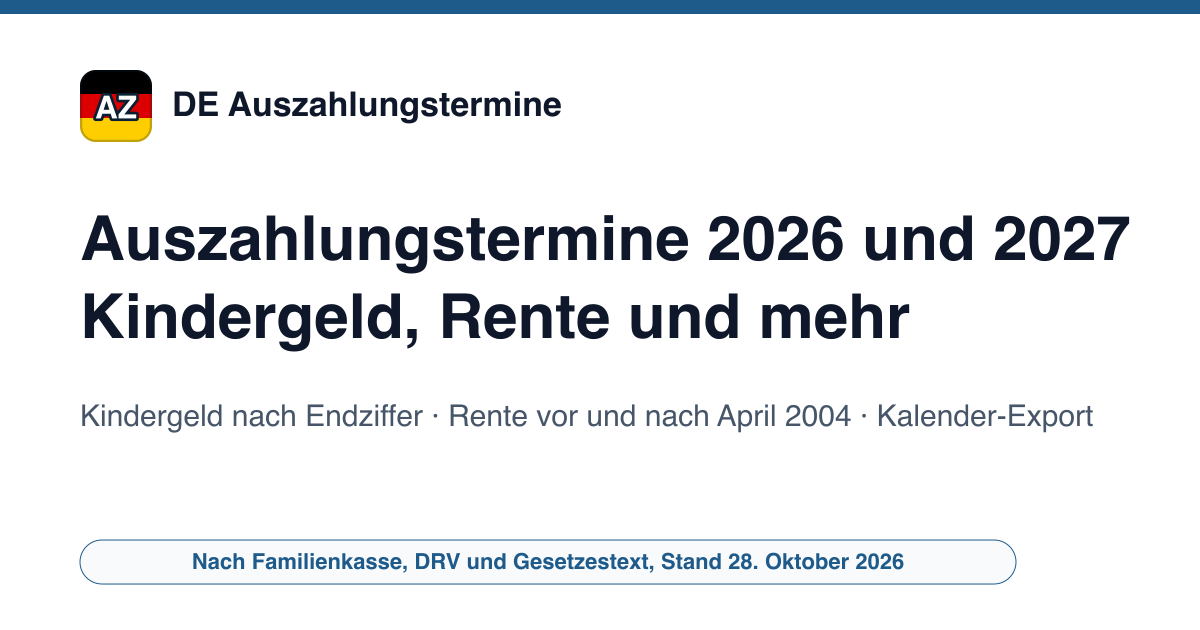
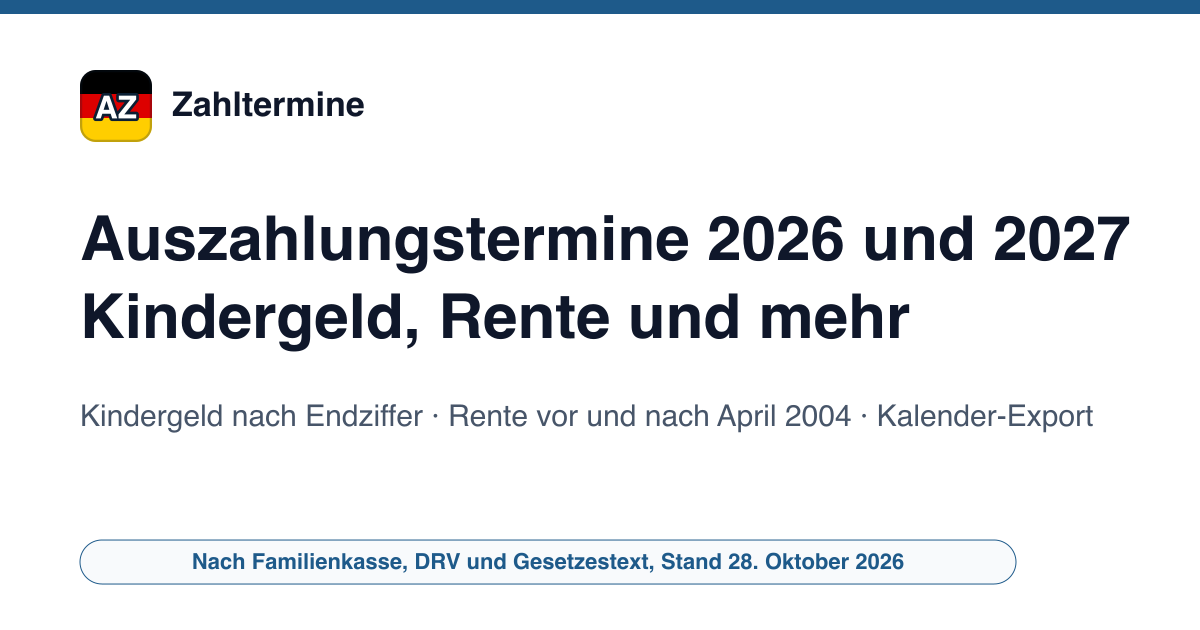
Renommage : de-auszahlungstermine devient zahltermine.de (Zahltermine)
Adresse, nom affiché, contact@zahltermine.de, CNAME, .nojekyll, robots,
images OG régénérées, ping IndexNow après déploiement ; fichier de débogage retiré.

Changed region(s): [[0.1233, 0.1206, 0.4933, 0.2111]]

diff --git a/src/data/site-config.ts b/src/data/site-config.ts
@@ -1,8 +1,8 @@
 /** Configuration centrale du site (générée par new-site.py). */
-export const SITE_URL = "https://de-auszahlungstermine.example";
-export const SITE_NAMES: Record<string, string> = {"de": "DE Auszahlungstermine", "en": "DE Auszahlungstermine"};
+export const SITE_URL = "https://zahltermine.de";
+export const SITE_NAMES: Record<string, string> = {"de": "Zahltermine", "en": "Zahltermine"};
 // Partie du nom affichée en couleur dans l'en-tête (RECETTE §10.3), « » pour aucune.
-export const BRAND_ACCENT = "Auszahlungstermine";
+export const BRAND_ACCENT = "termine";
 /** Locale des nombres et des dates : anglais britannique pour la version anglaise. */
 export const NUM_TAGS: Record<string, string> = {"de": "de-DE", "en": "en-GB"};
 export const LANG_TAGS: Record<string, string> = {"de": "de-DE", "en": "en-DE"};
@@ -20,7 +20,7 @@ export const AUTHOR_DESC: Record<string, string> = {"de": "Radif Partners trägt
  *  themes reellement traites par le site, pas une liste de mots-cles : un sujet
  *  declare ici sans page qui le couvre est une declaration fausse. */
 export const KNOWS_ABOUT: Record<string, string[]> = {"de": ["Auszahlungstermine des Kindergeldes nach Endziffer", "Rentenzahltermine nach § 118 und § 272a SGB VI", "Zahlung des Grundsicherungsgeldes nach § 42 SGB II", "Bankarbeitstage und TARGET-Schließtage", "Fälligkeit von Arbeitslosengeld, Elterngeld, Wohngeld und BAföG"], "en": ["German child benefit payment dates by final digit", "German pension payment dates", "Payment of basic income support (Grundsicherungsgeld)", "Bank business days and TARGET closing days", "Due dates of unemployment benefit, parental allowance, housing benefit and BAföG"]};
-export const CONTACT_EMAIL = "kontakt@de-auszahlungstermine.example";
+export const CONTACT_EMAIL = "contact@zahltermine.de";
 export const THEME_COLOR = '#1E5A8A';
 export const LOGO_SYMBOL = 'AZ';
 export const BING_VERIFY_CODE = '';

diff --git a/CONTRIBUTING-SEITEN.md b/CONTRIBUTING-SEITEN.md
@@ -1,4 +1,4 @@
-# Ajouter ou étoffer une page de DE Auszahlungstermine
+# Ajouter ou étoffer une page de Zahltermine
 
 Cette notice s'adresse aux agents qui prolongent le site. Lisez-la en entier avant d'écrire, avec `~/Documents/GitHub/RECETTE-SITE.md` (§0, §3, §6, §7, §9.3, §11, §21, §26).
 
